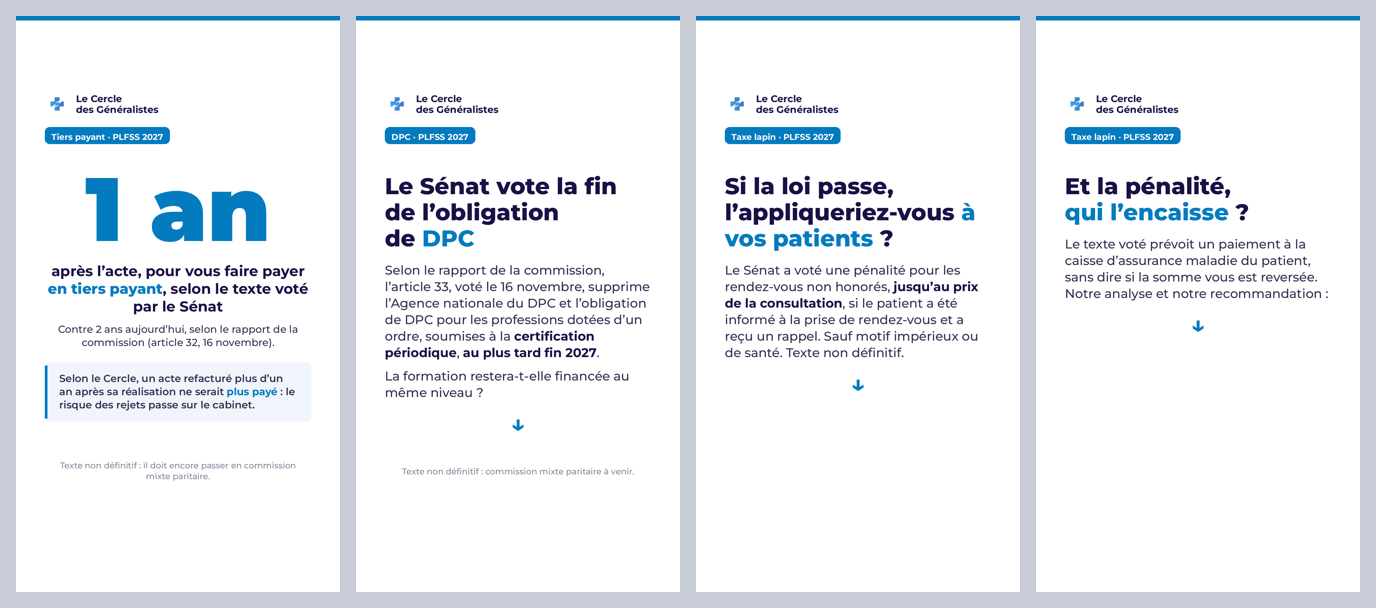
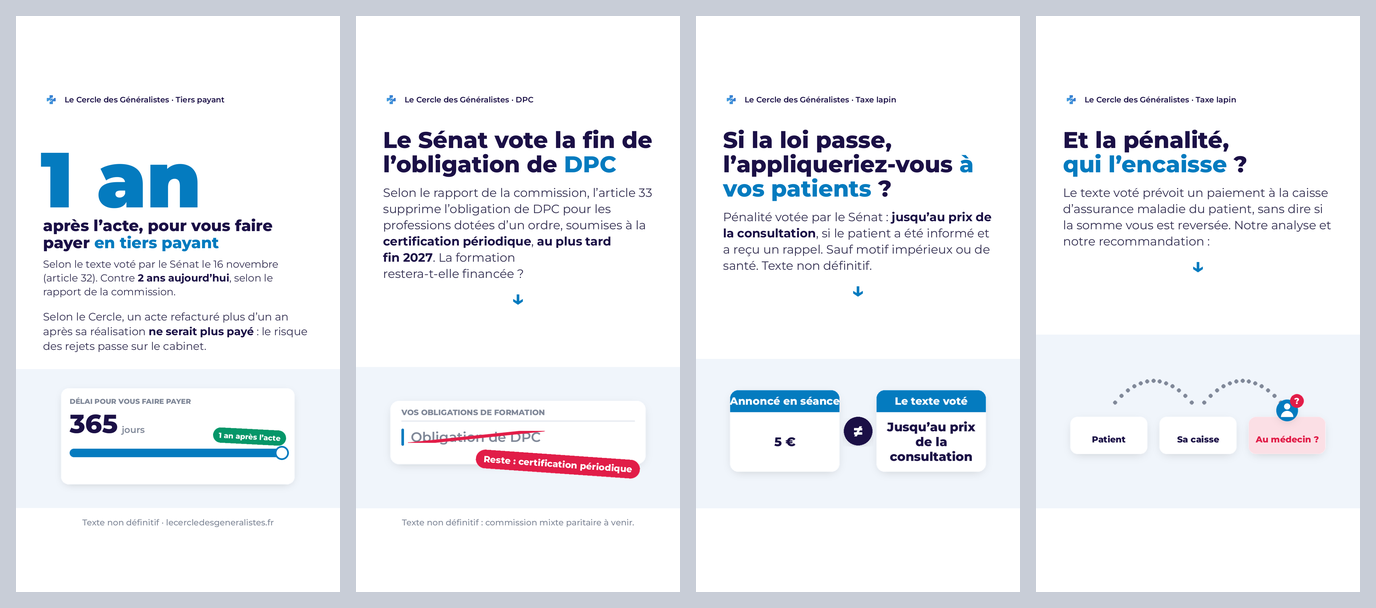
Stories et visuel 1 an au format des carrousels
Romain : refais les stories et le visuel tiers payant pareil. Titre ExtraBold en casse normale, illustration des
reels dans le bandeau du bas, place du sticker laissee vide ; stories_1119.py remplace l'ancien rendu.

Claude-Session: https://claude.ai/code/session_01E7sNzKT9uTZfQaWiRWBKKt

diff --git a/lcdg_1119/stories_1119.py b/lcdg_1119/stories_1119.py
@@ -1,0 +1,159 @@
+"""Stories (9:16) et visuel chiffre « 1 an » (4:5) du 19/11/2026, au format des carrousels validé par Romain le 19/11
+(« ok parfait, refais les stories et le visuel tiers payant pareil ») : titre en Montserrat ExtraBold, casse normale,
+un mot en bleu ; le texte en Montserrat ; une illustration des reels dans le bandeau bleu très pâle du bas.
+
+Stories : le contenu tient entre y 250 et 1560 (barre du haut et champ de réponse d'Instagram). La place du sticker
+(sondage ou lien) est laissée vide, sous la flèche, entre le texte et l'illustration.
+
+Textes relus contre le PDF (relecture indépendante du 19/11) : ils reprennent ceux de visuels_1119.py.
+
+    python stories_1119.py            -> lcdg_1119/visuels/*.png (remplace les versions de visuels_1119.py)"""
+import sys
+from pathlib import Path
+
+from PIL import Image, ImageDraw
+
+sys.path.insert(0, str(Path(__file__).resolve().parent))
+from illustrations import illustration  # noqa: E402
+from visuels_1119 import AP, BLANC, BLEU, GRIS, NB, NUIT, PALE, TEXTE, URL, ecrire, police  # noqa: E402
+from config import charte as C  # noqa: E402
+
+W = 1080
+MARGE = 90
+SORTIE = Path(__file__).resolve().parent / "visuels"
+
+
+def entete(im, d, y, rubrique):
+    logo = Image.open(C.LOGO_SRC).convert("RGBA")
+    logo = logo.crop(logo.getbbox())
+    logo.thumbnail((56, 56))
+    im.paste(logo, (MARGE, y), logo)
+    d.text((MARGE + logo.width + 16, y + logo.height / 2), f"Le Cercle des Généralistes · {rubrique}",
+           font=police(26, "SemiBold"), fill=NUIT, anchor="lm")
+    return y + logo.height
+
+
+def bandeau(im, d, y, bas, ill):
+    d.rectangle([0, y, W, bas], fill=PALE)
+    larg, haut = W - 2 * MARGE, bas - y - 100
+    k = min(larg / ill.width, haut / ill.height, 1.5)
+    ill = ill.resize((int(ill.width * k), int(ill.height * k)), Image.LANCZOS)
+    im.paste(ill, (int((W - ill.width) / 2), int(y + 50 + (haut - ill.height) / 2)), ill)
+
+
+def story(s):
+    """Rubrique, titre, texte ; la place du sticker sous une flèche ; l'illustration en bas (jusqu'à y 1560)."""
+    H = 1920
+    im = Image.new("RGB", (W, H), BLANC)
+    d = ImageDraw.Draw(im)
+    y = entete(im, d, 250, s["rubrique"]) + 60
+    y += ecrire(d, MARGE, y, W - 2 * MARGE, s["titre"], 76, graisse="ExtraBold", graisse_forte="ExtraBold",
+                couleur=NUIT, accent=BLEU, interligne=1.06)
+    y += 36
+    y += ecrire(d, MARGE, y, W - 2 * MARGE, s["texte"], 40, graisse="Regular", graisse_forte="Bold", couleur=TEXTE,
+                interligne=1.36)
+    if s.get("sticker"):
+        # la flèche, puis la place du sticker (environ 220 px), laissée vide
+        d.text((W / 2, y + 40), "↓", font=police(72, "Bold"), fill=BLEU, anchor="mt")
+        y += 40 + 72 + 170
+    else:
+        y += 60
+    if 1640 - y < 340:
+        print(f"[!] story « {s['titre'][:30]} » : place de l'illustration trop petite ({1640 - y} px)")
+    bandeau(im, d, y, 1640, illustration(s["image"]))
+    if s.get("pied"):
+        ecrire(d, MARGE, 1670, W - 2 * MARGE, s["pied"], 28, couleur=GRIS, centre=True)
+    return im
+
+
+def chiffre(s, H):
+    """Le visuel chiffre : « 1 an » en très grand, sa légende, l'illustration en bas."""
+    im = Image.new("RGB", (W, H), BLANC)
+    d = ImageDraw.Draw(im)
+    haut = 54 if H == 1350 else 250
+    y = entete(im, d, haut, s["rubrique"]) + (40 if H == 1350 else 80)
+    t = 260
+    d.text((MARGE - 8, y), s["chiffre"], font=police(t, "Black"), fill=BLEU)
+    y += int(t * 1.08)
+    y += ecrire(d, MARGE, y, W - 2 * MARGE, s["legende"], 52, graisse="ExtraBold", graisse_forte="ExtraBold",
+                couleur=NUIT, accent=BLEU, interligne=1.1)
+    y += 26
+    y += ecrire(d, MARGE, y, W - 2 * MARGE, s["detail"], 34, graisse="Regular", graisse_forte="Bold",
+                couleur=TEXTE, interligne=1.36)
+    if s.get("encadre") and H > 1350:
+        y += 36
+        y += ecrire(d, MARGE, y, W - 2 * MARGE, s["encadre"], 36, graisse="Regular", graisse_forte="Bold",
+                    couleur=TEXTE, interligne=1.36)
+    bas = H - 110 if H == 1350 else 1640
+    y += 50
+    if bas - y < 260:
+        print(f"[!] visuel {H} : place de l'illustration trop petite ({bas - y} px)")
+    bandeau(im, d, y, bas, illustration(s["image"]))
+    d.rectangle([0, bas, W, H], fill=PALE if H == 1350 else BLANC)
+    if H == 1350:
+        d.text((MARGE, H - 60), s["pied"], font=police(26, "Medium"), fill=GRIS, anchor="lm")
+    else:
+        ecrire(d, MARGE, 1670, W - 2 * MARGE, s["pied"], 28, couleur=GRIS, centre=True)
+    return im
+
+
+# ------------------------------------------------------------------ Tiers payant (PDF p. 3, 4 et 5)
+# p. 3 : « l'article 32, adopté le 16 novembre, fixe à un an après l'acte le délai pour se faire payer en tiers
+# payant, contre 2 ans aujourd'hui selon le rapport de la commission » ; p. 2 : votes non définitifs ; p. 5, REGARD
+# (attribué) : « un acte refacturé plus d'un an après sa réalisation ne serait plus payé »
+TIERS_PAYANT = {
+    "rubrique": "Tiers payant", "chiffre": "1 an",
+    "legende": f"après l{AP}acte, pour vous faire payer *en tiers payant*",
+    "detail": f"Selon le texte voté par le Sénat le 16{NB}novembre (article{NB}32). Contre **2{NB}ans aujourd{AP}hui**, "
+              f"selon le rapport de la commission.",
+    "encadre": f"Selon le Cercle, un acte refacturé plus d{AP}un an après sa réalisation **ne serait plus payé**{NB}: "
+               f"le risque des rejets passe sur le cabinet.",
+    "image": {"type": "delai", "titre": "Délai pour vous faire payer", "jours": 365, "temps": 0,
+              "fin": f"1 an après l{AP}acte", "temps_fin": 1},
+    "pied": f"Texte non définitif · {URL}"}
+
+STORIES = {
+    # p. 3 (article 33, selon le rapport de la commission) ; p. 4, question ouverte sur le financement
+    "story_dpc": {
+        "rubrique": "DPC", "titre": f"Le Sénat vote la fin de l{AP}obligation de *DPC*",
+        "texte": f"Selon le rapport de la commission, l{AP}article{NB}33 supprime l{AP}obligation de DPC pour les "
+                 f"professions dotées d{AP}un ordre, soumises à la **certification périodique**, **au plus tard "
+                 f"fin{NB}2027**. La formation restera-t-elle financée{NB}?",
+        "sticker": True,
+        "image": [{"type": "rature", "titre": "Vos obligations de formation",
+                   "lignes": [{"texte": "Obligation de DPC", "temps": 1}],
+                   "pilule": f"Reste{NB}: certification périodique", "temps_pilule": 2}],
+        "pied": f"Texte non définitif{NB}: commission mixte paritaire à venir."},
+    # p. 2-5 : la pénalité, ses deux conditions, l'exonération ; la question de la revue
+    "story_taxe_lapin_sondage": {
+        "rubrique": "Taxe lapin", "titre": f"Si la loi passe, l{AP}appliqueriez-vous *à vos patients*{NB}?",
+        "texte": f"Pénalité votée par le Sénat{NB}: **jusqu{AP}au prix de la consultation**, si le patient a été "
+                 f"informé et a reçu un rappel. Sauf motif impérieux ou de santé. Texte non définitif.",
+        "sticker": True,
+        "image": {"type": "duel", "cartes": [{"date": "Annoncé en séance", "texte": f"5{NB}€"},
+                                             {"date": "Le texte voté", "texte": "Jusqu’au prix de la consultation"}]}},
+    # p. 2 et 4 : paiement à la caisse de l'assuré, sans dire si la somme est reversée
+    "story_taxe_lapin_lien": {
+        "rubrique": "Taxe lapin", "titre": f"Et la pénalité, *qui l{AP}encaisse*{NB}?",
+        "texte": f"Le texte voté prévoit un paiement à la caisse d{AP}assurance maladie du patient, sans dire si la "
+                 f"somme vous est reversée. Notre analyse et notre recommandation{NB}:",
+        "sticker": True,
+        "image": {"type": "renvoi", "etapes": [{"label": "Patient"}, {"label": "Sa caisse"},
+                                               {"label": "Au médecin ?", "question": True}]}},
+}
+
+if __name__ == "__main__":
+    SORTIE.mkdir(exist_ok=True)
+    images = {"tiers_payant_4x5": chiffre(TIERS_PAYANT, 1350), "story_tiers_payant": chiffre(TIERS_PAYANT, 1920)}
+    images.update({n: story(s) for n, s in STORIES.items()})
+    for n, im in images.items():
+        im.save(SORTIE / f"{n}.png", optimize=True)
+    stories = [images[n] for n in ("story_tiers_payant", "story_dpc", "story_taxe_lapin_sondage",
+                                   "story_taxe_lapin_lien")]
+    k = 0.3
+    p = Image.new("RGB", (4 * int(W * k) + 5 * 16, int(1920 * k) + 32), (200, 205, 215))
+    for i, im in enumerate(stories):
+        p.paste(im.resize((int(W * k), int(1920 * k)), Image.LANCZOS), (16 + i * (int(W * k) + 16), 16))
+    p.save(SORTIE / "planche_chiffre_et_stories.png")
+    images["tiers_payant_4x5"].resize((540, 675), Image.LANCZOS).save(SORTIE / "planche_tiers_payant.png")
+    print(len(images), "images dans", SORTIE)

diff --git a/lcdg_1119/visuels_1119.py b/lcdg_1119/visuels_1119.py
@@ -528,15 +528,6 @@ def serie(nom, slides):
 
 
 if __name__ == "__main__":
-    SORTIE.mkdir(exist_ok=True)
-    # les carrousels Secteur 3 et Pénuries sont passés dans carrousels_1119.py (format récit, 19/11)
-    autres = {"tiers_payant_4x5": slide_chiffre(TIERS_PAYANT, H_FIL),
-              "story_tiers_payant": slide_chiffre(TIERS_PAYANT_STORY, H_STORY),
-              "story_dpc": slide_story(DPC_STORY),
-              "story_taxe_lapin_sondage": slide_story(LAPIN_SONDAGE),
-              "story_taxe_lapin_lien": slide_story(LAPIN_LIEN)}
-    for n, im in autres.items():
-        im.save(SORTIE / f"{n}.png", optimize=True)
-    planche("chiffre_et_stories", list(autres.values())[1:], cols=4)
-    autres["tiers_payant_4x5"].resize((540, 675)).save(SORTIE / "planche_tiers_payant.png")
-    print(len(list(SORTIE.glob("*.png"))), "images dans", SORTIE)
+    # depuis le 20/11, les stories et le visuel « 1 an » viennent de stories_1119.py (format des carrousels) ; ce
+    # module ne sert plus que de boîte à outils (texte riche, couleurs du Cercle)
+    print("Lancer stories_1119.py (stories, visuel 1 an) et carrousels_1119.py (carrousels).")
